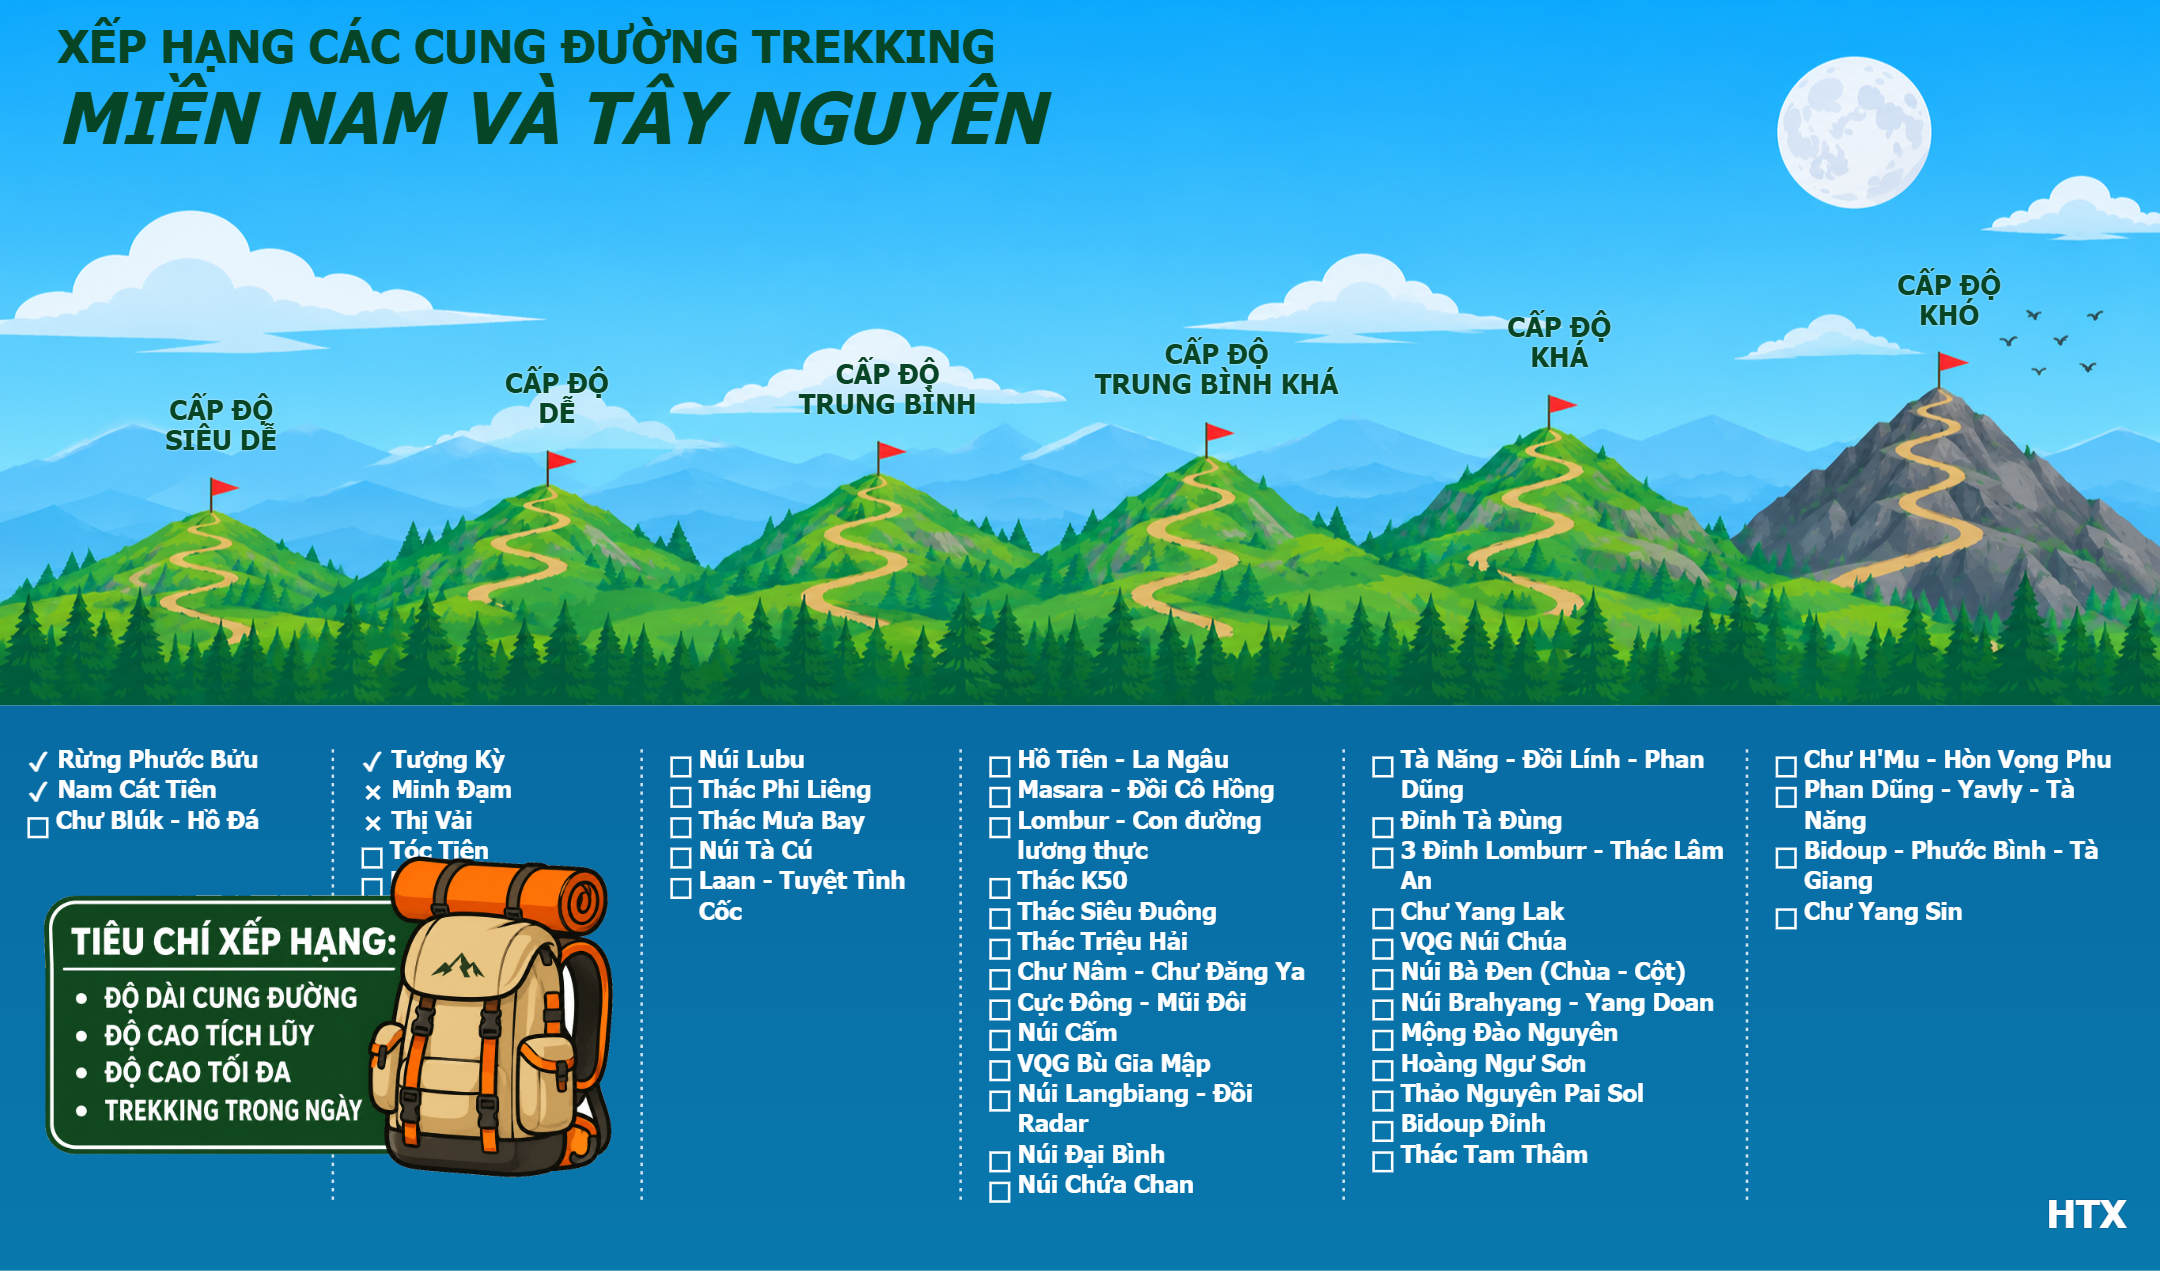
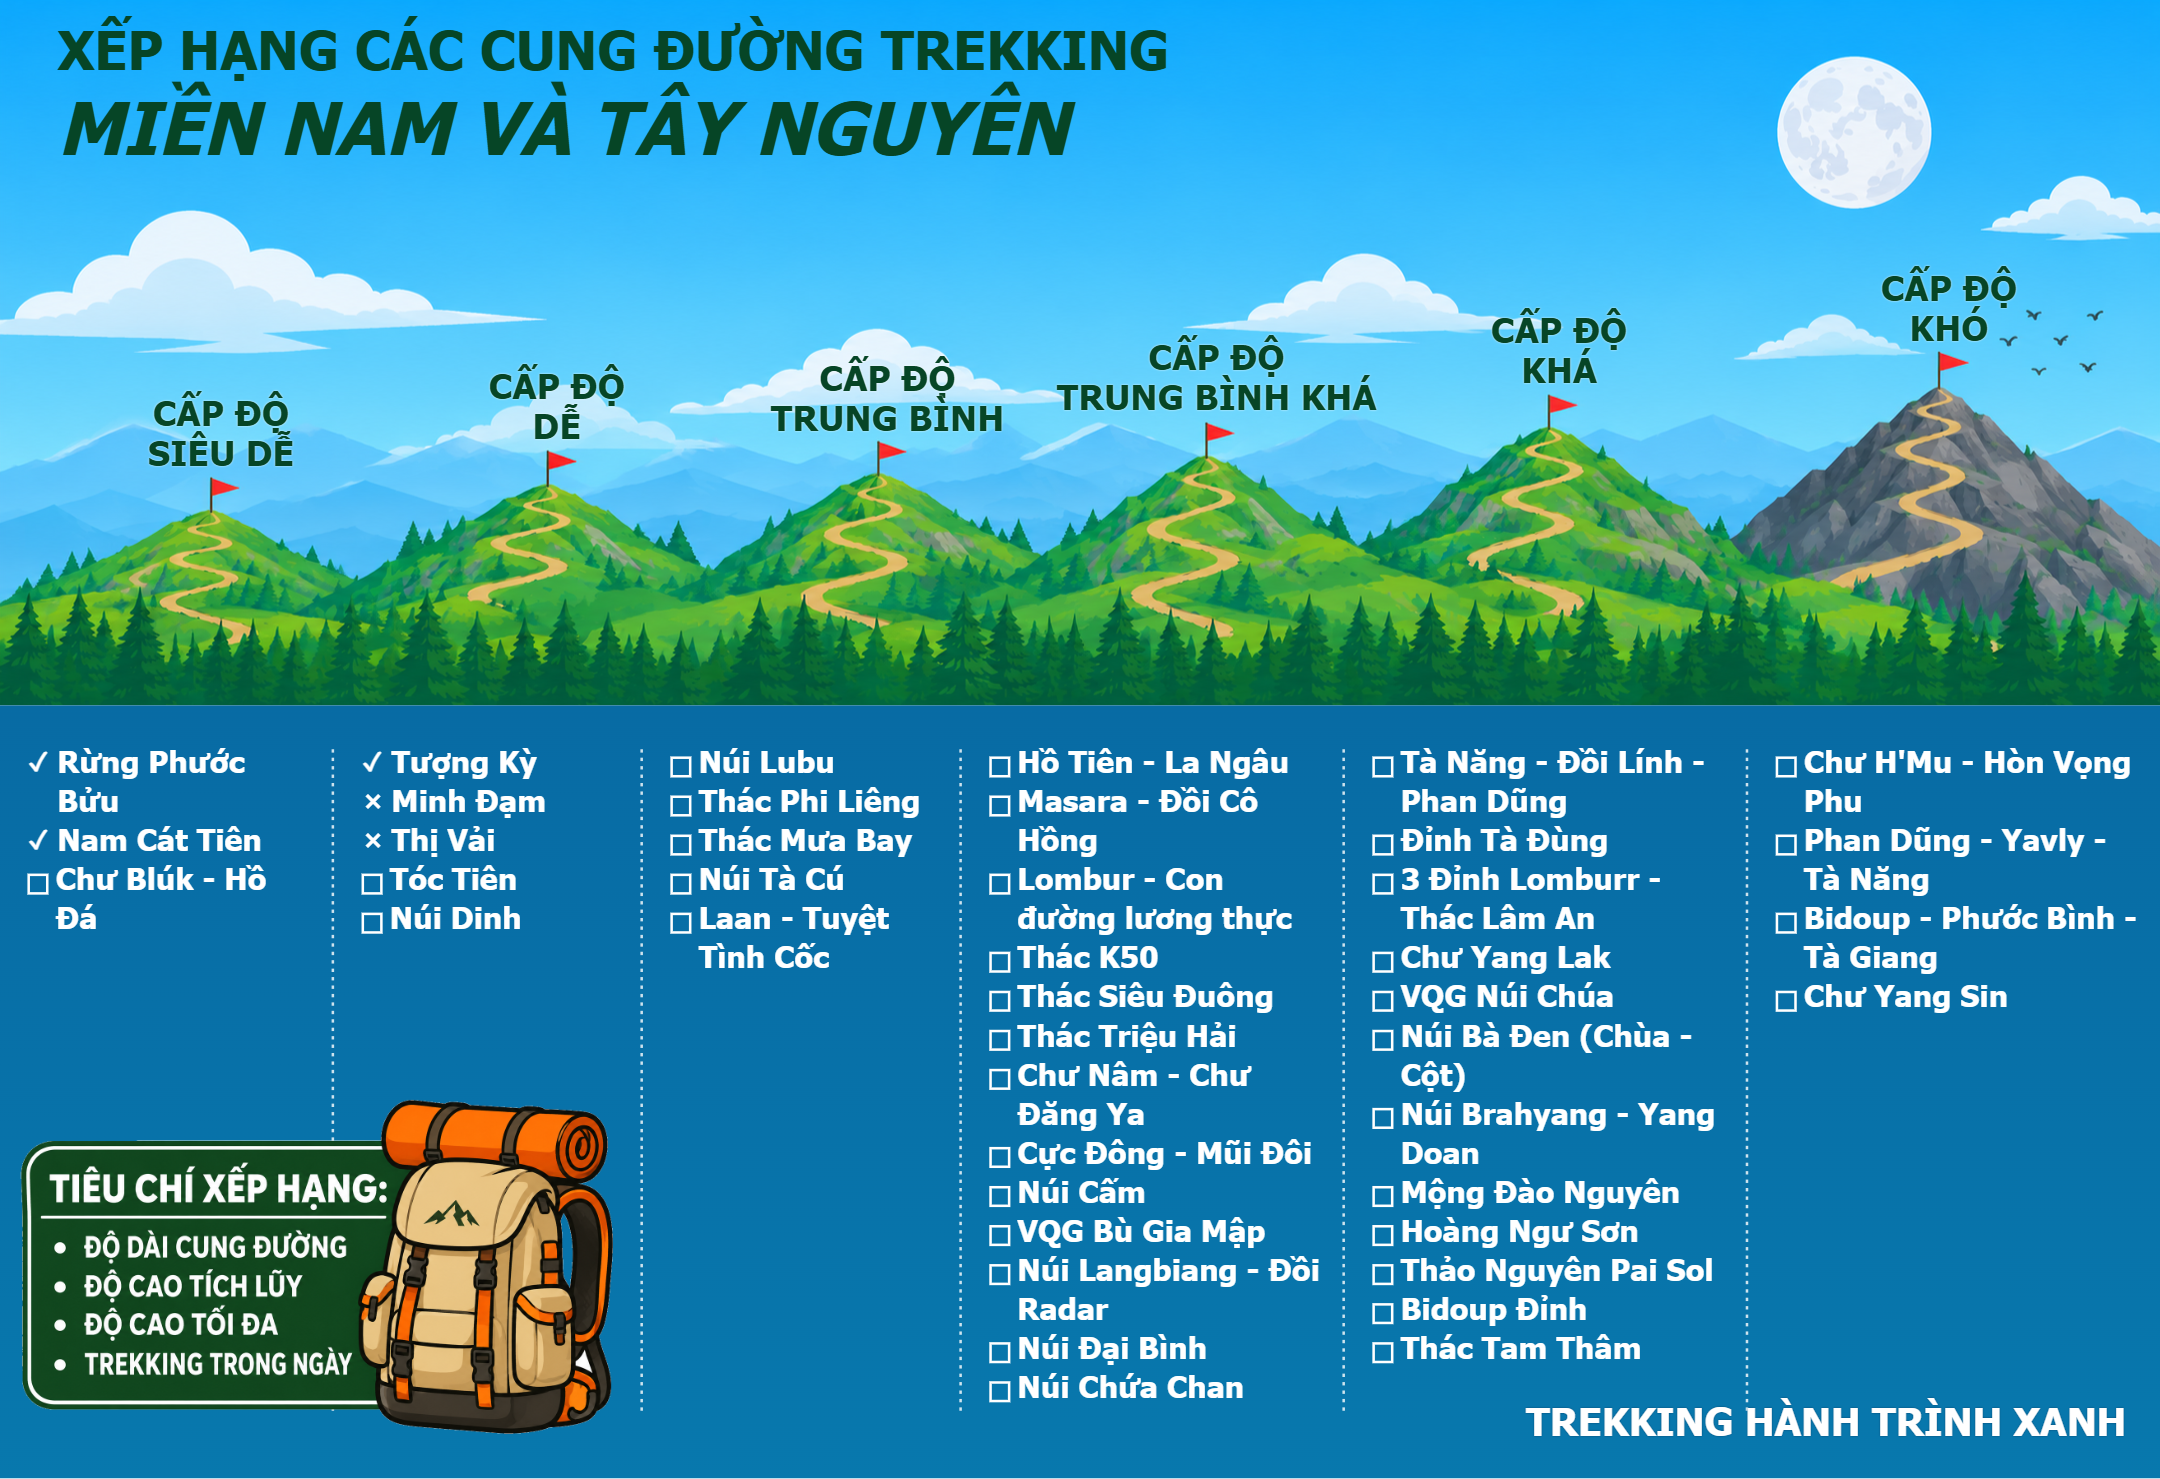
Add adjust bars

diff --git a/app/app.js b/app/app.js
@@ -41,6 +41,16 @@ const BASE_WIDTH = 1280;
 const OUTPUT_WIDTH = 2160;
 const OUTPUT_SCALE = OUTPUT_WIDTH / BASE_WIDTH;
 const TOP_HEIGHT = 418;
+const CRITERIA_LABEL_BASE_WIDTH = 320;
+const APPEARANCE_CONTROLS = [
+  { key: "subtitleFontSize", inputId: "subtitle-font-size", outputId: "subtitle-font-size-value", defaultValue: 27, min: 16, max: 48, unit: "px" },
+  { key: "titleFontSize", inputId: "title-font-size", outputId: "title-font-size-value", defaultValue: 78, min: 24, max: 100, unit: "px" },
+  { key: "routeFontSize", inputId: "route-font-size", outputId: "route-font-size-value", defaultValue: 14, min: 9, max: 24, unit: "px" },
+  { key: "levelLabelFontSize", inputId: "level-label-font-size", outputId: "level-label-font-size-value", defaultValue: 16, min: 10, max: 30, unit: "px" },
+  { key: "criteriaLabelVertical", inputId: "criteria-label-vertical", outputId: "criteria-label-vertical-value", defaultValue: 30, min: 0, max: 200, unit: "px" },
+  { key: "criteriaLabelHorizontal", inputId: "criteria-label-horizontal", outputId: "criteria-label-horizontal-value", defaultValue: 14, min: 0, max: 400, unit: "px" },
+  { key: "criteriaLabelScale", inputId: "criteria-label-scale", outputId: "criteria-label-scale-value", defaultValue: 100, min: 50, max: 200, unit: "%" }
+];
 const poster = document.getElementById("poster");
 const posterWrap = document.querySelector(".canvas-wrap");
 const posterBottom = document.getElementById("poster-bottom");
@@ -125,8 +135,56 @@ function currentSettings() {
   return {
     title: document.getElementById("title").value,
     footer: document.getElementById("footer").value,
-    routes: routes.map((group) => group.map((route) => [...route]))
+    routes: routes.map((group) => group.map((route) => [...route])),
+    appearance: currentAppearance()
   };
+}
+
+function validateAppearance(appearance) {
+  if (appearance === undefined) return Object.fromEntries(
+    APPEARANCE_CONTROLS.map(({ key, defaultValue }) => [key, defaultValue])
+  );
+  if (!appearance || typeof appearance !== "object" || Array.isArray(appearance)) {
+    throw new Error("Cấu hình giao diện không hợp lệ.");
+  }
+
+  const allowedKeys = new Set(APPEARANCE_CONTROLS.map(({ key }) => key));
+  if (Object.keys(appearance).some((key) => !allowedKeys.has(key))) {
+    throw new Error("Cấu hình giao diện chứa thuộc tính không được hỗ trợ.");
+  }
+
+  const validated = {};
+  APPEARANCE_CONTROLS.forEach(({ key, defaultValue, min, max }) => {
+    const value = Object.prototype.hasOwnProperty.call(appearance, key)
+      ? appearance[key]
+      : defaultValue;
+    if (!Number.isInteger(value) || value < min || value > max) {
+      throw new Error(`Giá trị ${key} phải là số nguyên từ ${min} đến ${max}.`);
+    }
+    validated[key] = value;
+  });
+  return validated;
+}
+
+function currentAppearance() {
+  const appearance = {};
+  APPEARANCE_CONTROLS.forEach(({ key, inputId }) => {
+    appearance[key] = Number(document.getElementById(inputId).value);
+  });
+  return validateAppearance(appearance);
+}
+
+function applyAppearance(appearance) {
+  APPEARANCE_CONTROLS.forEach(({ key, inputId, outputId, unit }) => {
+    const value = appearance[key];
+    document.getElementById(inputId).value = String(value);
+    document.getElementById(outputId).value = `${value} ${unit}`;
+  });
+  poster.style.setProperty("--poster-route-font-size", `${appearance.routeFontSize}px`);
+  poster.style.setProperty("--poster-level-font-size", `${appearance.levelLabelFontSize}px`);
+  criteriaLabel.style.bottom = `${appearance.criteriaLabelVertical}px`;
+  criteriaLabel.style.left = `${appearance.criteriaLabelHorizontal}px`;
+  criteriaLabel.style.width = `${CRITERIA_LABEL_BASE_WIDTH * appearance.criteriaLabelScale / 100}px`;
 }
 
 function validateSettings(settings) {
@@ -146,12 +204,18 @@ function validateSettings(settings) {
       return [route[0], route[1]];
     });
   });
-  return { title: settings.title, footer: settings.footer, routes: validatedRoutes };
+  return {
+    title: settings.title,
+    footer: settings.footer,
+    routes: validatedRoutes,
+    appearance: validateAppearance(settings.appearance)
+  };
 }
 
 function applySettings(settings) {
   document.getElementById("title").value = settings.title;
   document.getElementById("footer").value = settings.footer;
+  applyAppearance(settings.appearance);
   settings.routes.forEach((group, groupIndex) => {
     routes[groupIndex].splice(0, routes[groupIndex].length, ...group);
   });
@@ -286,24 +350,26 @@ function fitHeading(element, text, startingSize, minimumSize, maxWidth) {
   let size = startingSize;
   element.style.fontSize = `${size}px`;
   while (element.scrollWidth > maxWidth && size > minimumSize) {
-    size -= 2;
+    size = Math.max(minimumSize, size - 1);
     element.style.fontSize = `${size}px`;
   }
 }
 
 function render() {
+  const appearance = currentAppearance();
+  applyAppearance(appearance);
   fitHeading(
     document.getElementById("poster-subtitle"),
     "XẾP HẠNG CÁC CUNG ĐƯỜNG TREKKING",
-    27,
-    16,
+    appearance.subtitleFontSize,
+    APPEARANCE_CONTROLS[0].min,
     680
   );
   fitHeading(
     document.getElementById("poster-title"),
     document.getElementById("title").value.toLocaleUpperCase("vi-VN"),
-    78,
-    24,
+    appearance.titleFontSize,
+    APPEARANCE_CONTROLS[1].min,
     600
   );
   document.getElementById("poster-footer").textContent = document.getElementById("footer").value;
@@ -435,6 +501,7 @@ async function renderPosterPng() {
 
     const firstLevelLabel = posterLevelLabels.querySelector(".poster-level-label");
     const levelStyle = getComputedStyle(firstLevelLabel);
+    const levelLineHeight = parseFloat(levelStyle.lineHeight) || 18;
     context.font = canvasFont(levelStyle);
     context.fillStyle = levelStyle.color;
     context.textAlign = "center";
@@ -443,7 +510,7 @@ async function renderPosterPng() {
     context.shadowBlur = 2;
     levelLabels.forEach(({ name, x, y }) => {
       context.fillText("CẤP ĐỘ", x, y);
-      context.fillText(name, x, y + 18);
+      context.fillText(name, x, y + levelLineHeight);
     });
     context.shadowBlur = 0;
     context.textAlign = "left";
@@ -535,6 +602,11 @@ document.getElementById("title").addEventListener("input", () => {
   saveSettings();
 });
 document.getElementById("footer").addEventListener("input", () => {
+  render();
+  saveSettings();
+});
+document.getElementById("appearance-controls").addEventListener("input", (event) => {
+  if (!APPEARANCE_CONTROLS.some(({ inputId }) => inputId === event.target.id)) return;
   render();
   saveSettings();
 });

diff --git a/index.html b/index.html
@@ -33,6 +33,45 @@
         <input id="settings-file" type="file" accept="application/json,.json">
       </div>
 
+      <section id="appearance-controls" class="appearance-controls" aria-labelledby="appearance-heading">
+        <h2 id="appearance-heading">Điều chỉnh kích thước và vị trí</h2>
+        <div class="slider-control">
+          <label for="subtitle-font-size">Cỡ chữ “XẾP HẠNG CÁC CUNG ĐƯỜNG”</label>
+          <output id="subtitle-font-size-value" for="subtitle-font-size">27 px</output>
+          <input id="subtitle-font-size" type="range" min="16" max="48" step="1" value="27">
+        </div>
+        <div class="slider-control">
+          <label for="title-font-size">Cỡ chữ tiêu đề</label>
+          <output id="title-font-size-value" for="title-font-size">78 px</output>
+          <input id="title-font-size" type="range" min="24" max="100" step="1" value="78">
+        </div>
+        <div class="slider-control">
+          <label for="route-font-size">Cỡ chữ tên cung đường</label>
+          <output id="route-font-size-value" for="route-font-size">14 px</output>
+          <input id="route-font-size" type="range" min="9" max="24" step="1" value="14">
+        </div>
+        <div class="slider-control">
+          <label for="level-label-font-size">Cỡ chữ 6 cấp độ</label>
+          <output id="level-label-font-size-value" for="level-label-font-size">16 px</output>
+          <input id="level-label-font-size" type="range" min="10" max="30" step="1" value="16">
+        </div>
+        <div class="slider-control">
+          <label for="criteria-label-vertical">Vị trí dọc nhãn tiêu chí (cách đáy)</label>
+          <output id="criteria-label-vertical-value" for="criteria-label-vertical">30 px</output>
+          <input id="criteria-label-vertical" type="range" min="0" max="200" step="1" value="30">
+        </div>
+        <div class="slider-control">
+          <label for="criteria-label-horizontal">Vị trí ngang nhãn tiêu chí (cách trái)</label>
+          <output id="criteria-label-horizontal-value" for="criteria-label-horizontal">14 px</output>
+          <input id="criteria-label-horizontal" type="range" min="0" max="400" step="1" value="14">
+        </div>
+        <div class="slider-control">
+          <label for="criteria-label-scale">Tỷ lệ nhãn tiêu chí</label>
+          <output id="criteria-label-scale-value" for="criteria-label-scale">100%</output>
+          <input id="criteria-label-scale" type="range" min="50" max="200" step="1" value="100">
+        </div>
+      </section>
+
       <p id="save-state" class="hint" role="status" aria-live="polite">Đang tải config/settings.json...</p>
       <p class="hint">Để lưu cài đặt vào repo, chạy <code>python server.py</code> rồi mở <code>http://127.0.0.1:8765</code>. Dùng Xuất/Nhập JSON để chuyển cài đặt giữa các trình duyệt.</p>
       <div id="groups" class="groups"></div>

diff --git a/styles/main.css b/styles/main.css
@@ -71,6 +71,52 @@ input:focus, select:focus, button:focus-visible {
   outline-offset: 1px;
 }
 
+.appearance-controls {
+  display: grid;
+  gap: 11px;
+  margin-bottom: 16px;
+  padding: 12px;
+  border: 1px solid #dce3e7;
+  border-radius: 8px;
+  background: #fbfcfd;
+}
+
+.appearance-controls h2 {
+  margin: 0;
+  font-size: 14px;
+}
+
+.slider-control {
+  display: grid;
+  grid-template-columns: minmax(0, 1fr) 55px;
+  grid-template-areas:
+    "label value"
+    "range range";
+  align-items: center;
+  gap: 4px 8px;
+}
+
+.slider-control label {
+  grid-area: label;
+  margin: 0;
+  font-size: 12px;
+}
+
+.slider-control output {
+  grid-area: value;
+  color: #53636b;
+  font-size: 12px;
+  font-variant-numeric: tabular-nums;
+  text-align: right;
+}
+
+.slider-control input[type="range"] {
+  grid-area: range;
+  width: 100%;
+  margin: 0;
+  accent-color: #145a48;
+}
+
 .toolbar {
   display: flex;
   flex-wrap: wrap;
@@ -195,9 +241,9 @@ button.primary:hover { background: #0e4939; }
   width: 170px;
   transform: translateX(-50%);
   color: #064526;
-  font-size: 16px;
+  font-size: var(--poster-level-font-size, 16px);
   font-weight: 800;
-  line-height: 18px;
+  line-height: 1.125;
   text-align: center;
   text-shadow: 0 1px 2px rgba(255,255,255,.9), 0 0 4px rgba(255,255,255,.75);
   white-space: nowrap;
@@ -264,9 +310,9 @@ button.primary:hover { background: #0e4939; }
   display: flex;
   align-items: flex-start;
   gap: 5px;
-  font-size: 14px;
+  font-size: var(--poster-route-font-size, 14px);
   font-weight: 600;
-  line-height: 18px;
+  line-height: 1.2857;
   overflow-wrap: anywhere;
 }
 

diff --git a/server.py b/server.py
@@ -10,6 +10,24 @@ CONFIG_DIR = ROOT / "config"
 SETTINGS_FILE = CONFIG_DIR / "settings.json"
 VALID_ICONS = {"box", "check", "x"}
 MAX_REQUEST_SIZE = 1_000_000
+DEFAULT_APPEARANCE = {
+    "subtitleFontSize": 27,
+    "titleFontSize": 78,
+    "routeFontSize": 14,
+    "levelLabelFontSize": 16,
+    "criteriaLabelVertical": 30,
+    "criteriaLabelHorizontal": 14,
+    "criteriaLabelScale": 100,
+}
+APPEARANCE_RANGES = {
+    "subtitleFontSize": (16, 48),
+    "titleFontSize": (24, 100),
+    "routeFontSize": (9, 24),
+    "levelLabelFontSize": (10, 30),
+    "criteriaLabelVertical": (0, 200),
+    "criteriaLabelHorizontal": (0, 400),
+    "criteriaLabelScale": (50, 200),
+}
 
 
 def validate_settings(value):
@@ -19,12 +37,25 @@ def validate_settings(value):
     title = value.get("title")
     footer = value.get("footer")
     groups = value.get("routes")
+    appearance = value.get("appearance", {})
     if not isinstance(title, str) or len(title) > 5000:
         raise ValueError("Title must be a string of at most 5000 characters.")
     if not isinstance(footer, str) or len(footer) > 5000:
         raise ValueError("Footer must be a string of at most 5000 characters.")
     if not isinstance(groups, list) or len(groups) != 6:
         raise ValueError("Routes must contain exactly six groups.")
+    if not isinstance(appearance, dict):
+        raise ValueError("Appearance settings must be an object.")
+    if set(appearance) - set(DEFAULT_APPEARANCE):
+        raise ValueError("Appearance settings contain unsupported properties.")
+
+    clean_appearance = {}
+    for key, default in DEFAULT_APPEARANCE.items():
+        setting = appearance.get(key, default)
+        minimum, maximum = APPEARANCE_RANGES[key]
+        if type(setting) is not int or not minimum <= setting <= maximum:
+            raise ValueError(f"{key} must be an integer between {minimum} and {maximum}.")
+        clean_appearance[key] = setting
 
     routes = []
     for group in groups:
@@ -44,7 +75,12 @@ def validate_settings(value):
             clean_group.append([route[0], route[1]])
         routes.append(clean_group)
 
-    return {"title": title, "footer": footer, "routes": routes}
+    return {
+        "title": title,
+        "footer": footer,
+        "routes": routes,
+        "appearance": clean_appearance,
+    }
 
 
 class Handler(SimpleHTTPRequestHandler):

diff --git a/README.md b/README.md
@@ -6,6 +6,7 @@ Run `python server.py` and open `http://127.0.0.1:8765`.
 - Input images are stored in `assets/`; the active top artwork is `assets/6peaks.png`.
 - Six difficulty labels are placed over the peaks.
 - The criteria label is `assets/criteria-label.png`; its edge-connected white background is made transparent for the preview and PNG export.
+- Seven appearance sliders adjust heading, route, and level-label sizes plus the criteria label's position and scale; values are saved with the poster settings.
 - The poster preview uses HTML/CSS; PNG download uses a separate Canvas export renderer and is 2160 pixels wide.
 - Route columns, editable title, and footer are generated from `config/settings.json`.
 - Styles are in `styles/main.css`.
